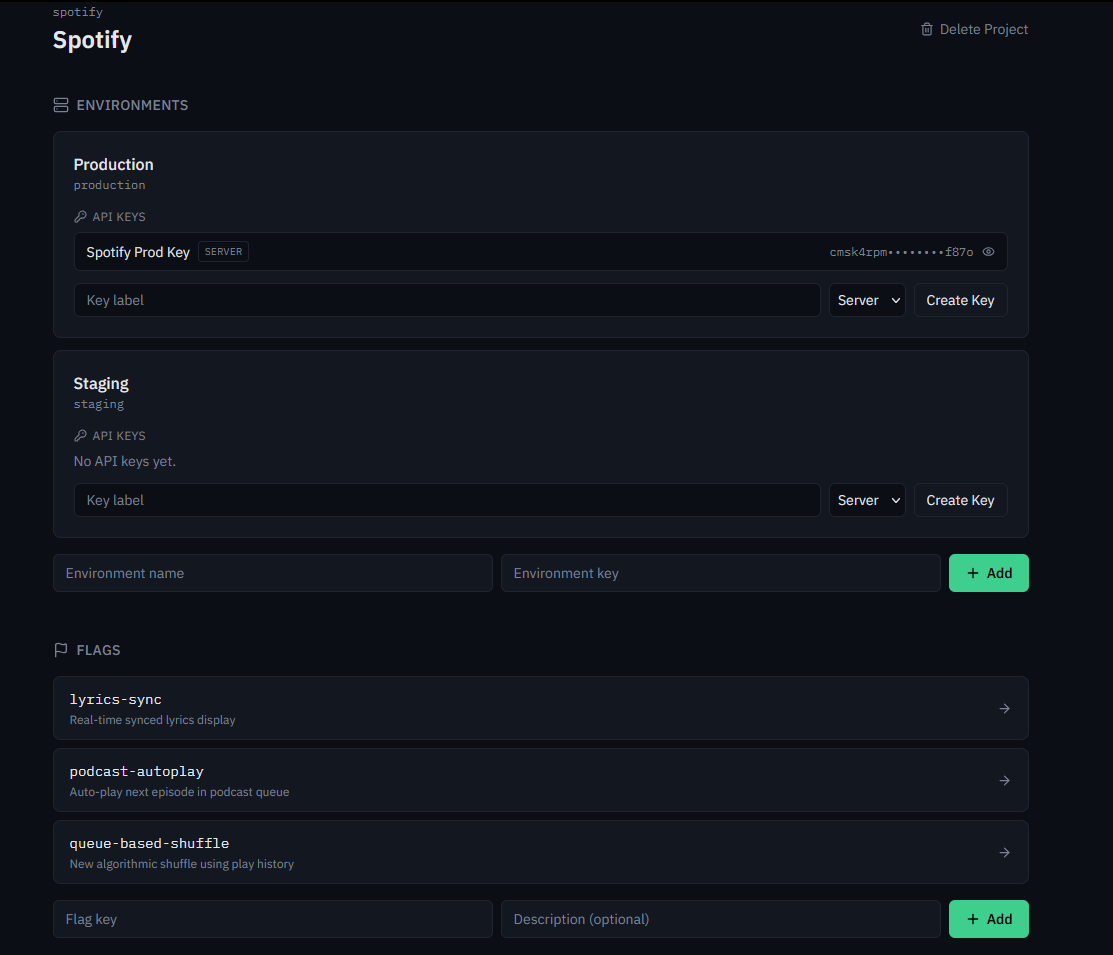
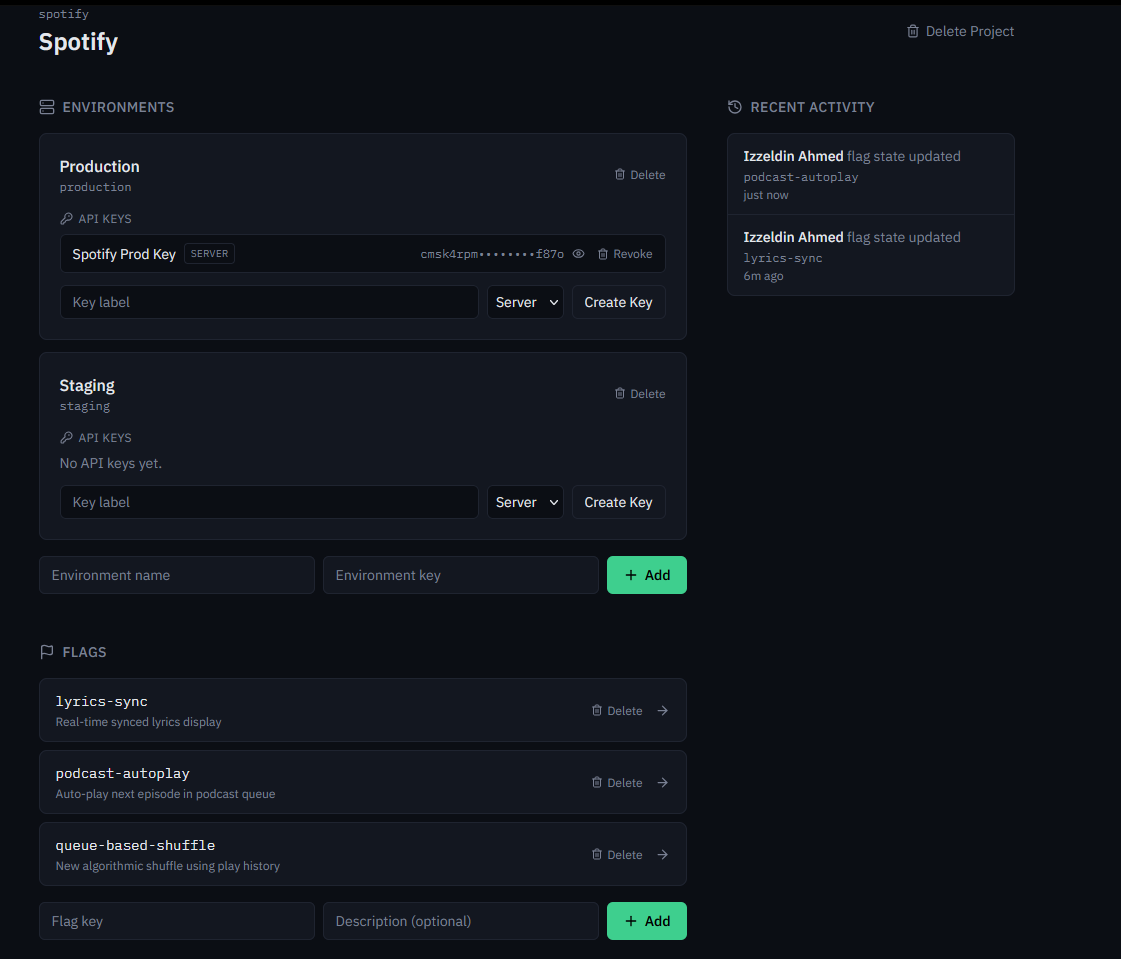
update README with trimmed structure and fix screenshot filenames

diff --git a/README.md b/README.md
@@ -1,37 +1,106 @@
-This is a [Next.js](https://nextjs.org) project bootstrapped with [`create-next-app`](https://nextjs.org/docs/app/api-reference/cli/create-next-app).
+# Flag Forge
 
-## Getting Started
+A feature flag platform for rolling out features gradually, targeting the right users, and killing switches instantly — without a redeploy. Includes a first-party SDK for consuming flags from any Node or browser application.
 
-First, run the development server:
+**Live:** [flag-forge-tawny.vercel.app](https://flag-forge-tawny.vercel.app)
+
+## Preview
+
+---
+
+### landing page
+
+![Landing Page](./screenshots/landing.png)
+
+### dashboard page
+
+![Dashboard](./screenshots/dashboard.png)
+
+### project view 
+
+![Project View](./screenshots/project-view.png)
+
+### flag detial
+
+![Flag Detail](./screenshots/flag-detail.png)
+
+## features
+
+---
+
+- Google/email auth via Kinde
+- Projects, environments, and flags with role-based project membership
+- Percentage-based gradual rollouts using consistent hashing, so a given user always lands in the same bucket
+- Rule-based targeting with nested AND/OR conditions (e.g. `country equals AE`)
+- Per-environment flag state — the same flag can be on in staging and off in production
+- Scoped API keys — one key per environment, doubling as the tenant boundary for evaluation requests
+- Public evaluation endpoint any application can call to check a flag
+- Real-time flag change streaming over Server-Sent Events
+- A standalone SDK package with both one-shot (`getFlag`) and real-time (`subscribe`) methods
+- Audit log of flag state changes (who changed what, when, before/after values), shown per project
+- Delete/revoke for projects, environments, flags, and API keys, each behind a confirmation step
+- Dockerized for local/self-hosted deployment
+
+## tech used 
+
+---
+
+### stack
+
+- TypeScript
+- Next.js (App Router, Server Components, Server Actions)
+- PostgreSQL
+- Prisma
+- Tailwind
+- Docker
+- Vercel
+- Neon
+
+## libraries  
+
+---
+
+- [Kinde](https://kinde.com) – Authentication and session management.
+- [Prisma](https://www.prisma.io) – type-safe ORM for POSTGRESQL.
+- [@prisma/adapter-pg](https://www.prisma.io/docs/orm/overview/databases/postgresql) – Driver adapter for Prisma's Postgres connections.
+- [lucide-react](https://lucide.dev) – for icons.
+
+## how to run locally 
+
+---
 
 ```bash
-npm run dev
-# or
-yarn dev
-# or
-pnpm dev
-# or
-bun dev
+git clone https://github.com/IzzAbdullah223/flag-forge
+cd flag-forge
+npm install
 ```
 
-Open [http://localhost:3000](http://localhost:3000) with your browser to see the result.
+create a `.env` file:
 
-You can start editing the page by modifying `app/page.tsx`. The page auto-updates as you edit the file.
+```
+DATABASE_URL=postgresql://user:password@localhost:5432/flags?schema=public
+SECRET_KEY=< random string >
+KINDE_CLIENT_ID=
+KINDE_CLIENT_SECRET=
+KINDE_ISSUER_URL=
+KINDE_SITE_URL=http://localhost:3000
+KINDE_POST_LOGOUT_REDIRECT_URL=http://localhost:3000
+KINDE_POST_LOGIN_REDIRECT_URL=http://localhost:3000/api/auth/success
+```
 
-This project uses [`next/font`](https://nextjs.org/docs/app/building-your-application/optimizing/fonts) to automatically optimize and load [Geist](https://vercel.com/font), a new font family for Vercel.
+```bash
+npx prisma migrate deploy
+npm run dev
+```
 
-## Learn More
+### docker
 
-To learn more about Next.js, take a look at the following resources:
+```bash
+docker compose up --build
+```
 
-- [Next.js Documentation](https://nextjs.org/docs) - learn about Next.js features and API.
-- [Learn Next.js](https://nextjs.org/learn) - an interactive Next.js tutorial.
+then open another terminal and run this 
 
-You can check out [the Next.js GitHub repository](https://github.com/vercel/next.js) - your feedback and contributions are welcome!
-
-## Deploy on Vercel
-
-The easiest way to deploy your Next.js app is to use the [Vercel Platform](https://vercel.com/new?utm_medium=default-template&filter=next.js&utm_source=create-next-app&utm_campaign=create-next-app-readme) from the creators of Next.js.
-
-Check out our [Next.js deployment documentation](https://nextjs.org/docs/app/building-your-application/deploying) for more details.
-"# flag-forge" 
+```bash
+docker compose exec app npx prisma migrate deploy
+```
